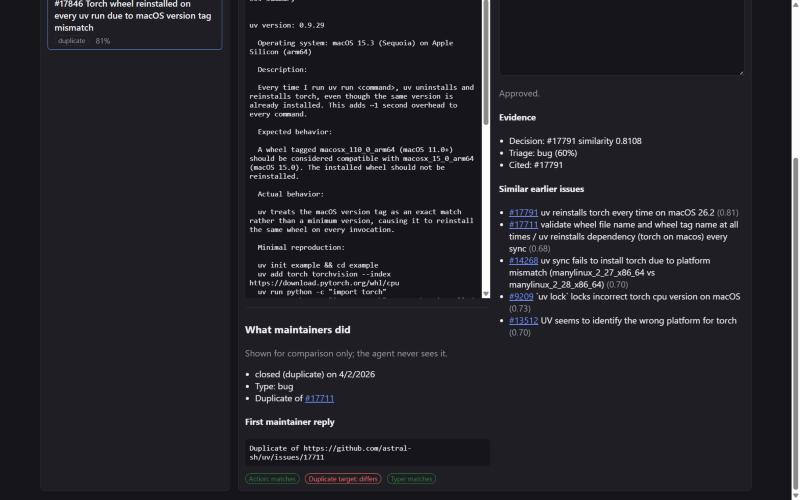
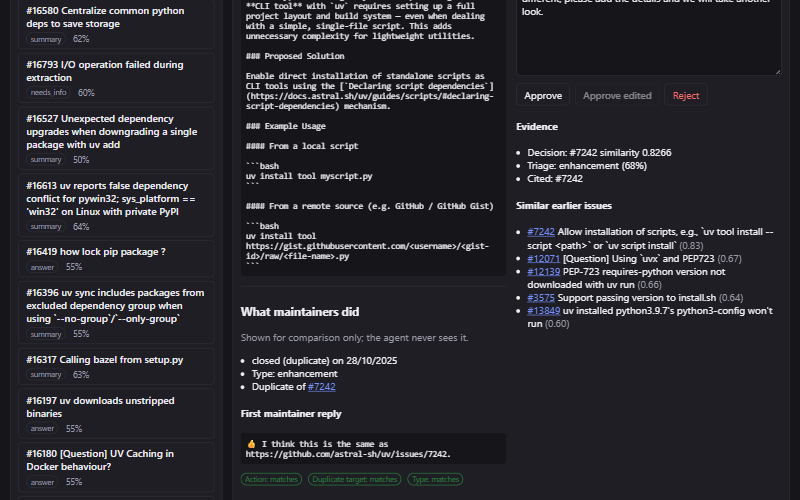
docs: retake README screenshots from the current Docker demo
The old screenshots came from feat-020, before calibrated routing: their
KPI bar showed 20% replay agreement and #16021 is no longer answered.
The new ones come from a fresh demo running the shipped models: #16180
with a draft citing the cache docs, and the replay of #16376, where the
agent found the maintainer-linked original. The replay caption says
that most replayed duplicates are missed.

diff --git a/README.md b/README.md
@@ -4,7 +4,7 @@
 
 **For each new issue, the system proposes a type label, finds earlier issues that may be duplicates, and prepares a draft response for a maintainer to approve, edit or reject.** It combines hybrid retrieval (pgvector + BM25), a LangGraph agent that always stops for human review, and two small trained classifiers. Every component is evaluated against what the maintainers of [astral-sh/uv](https://github.com/astral-sh/uv) actually did with 9,411 real issues, opened between October 2023 and October 2026.
 
-![The review screen: issue #16021 beside a draft reply that quotes the uv docs, with KPIs above the queue](docs/images/review.png)
+![The review screen in the Docker demo: issue #16180 beside a draft reply that quotes the uv cache docs, with KPIs above the queue](docs/images/review.png)
 
 > **Portfolio project, read this first.**
 > - **No real language model has been used.** Every step that would call an LLM runs on a deterministic stand-in, because no API key was configured ([D-007](DECISIONS.md#d-007-build-on-a-fake-llm-and-local-models-run-gates-without-the-frameworks-adoption-matrix)). The numbers below are a **zero-spend baseline**; plugging in a real model is a settings change, but it has not been done.
@@ -71,7 +71,7 @@ How to read this:
 
 More detail and the full tables: [`evals/results/`](evals/results/README.md).
 
-![Replay of #17846: the agent proposed duplicate #17791; maintainers linked #17711. Badges show the action matches and the target differs](docs/images/replay.png)
+![Replay of #16376 in the Docker demo: the agent proposed duplicate #7242, the issue maintainers linked; badges show action, target and type all match. Most replayed duplicates are missed, see the results above](docs/images/replay.png)
 
 ## How it works
 

diff --git a/progress/027-2026-11-03.md b/progress/027-2026-11-03.md
@@ -25,5 +25,5 @@ The code landed on `main` inside commit 78c79b2 (titled as a harness upgrade, se
 
 #### Risks / open points
 
-- `docs/images/review.png` and `replay.png` date from feat-020 (full local data, legacy routing): their KPI bar shows 20% replay agreement and #16021 is now routed to needs-info, not answer. They show the UI correctly but should be retaken.
+- `docs/images/review.png` and `replay.png` date from feat-020 (full local data, legacy routing): their KPI bar shows 20% replay agreement and #16021 is now routed to needs-info, not answer. They were retaken from the Docker demo (calibrated routing, the shipped models): `review.png` shows #16180 with an answer citing `concepts/cache#8`; `replay.png` shows #16376, the one of eight replayed in-sample duplicates where the agent found the maintainer-linked original (#7242). Captured with headless Chrome over the DevTools protocol at 1280×800, scale 0.625.
 - The demo searches 400 sample issues for duplicates, so it finds fewer originals than the evaluation.
